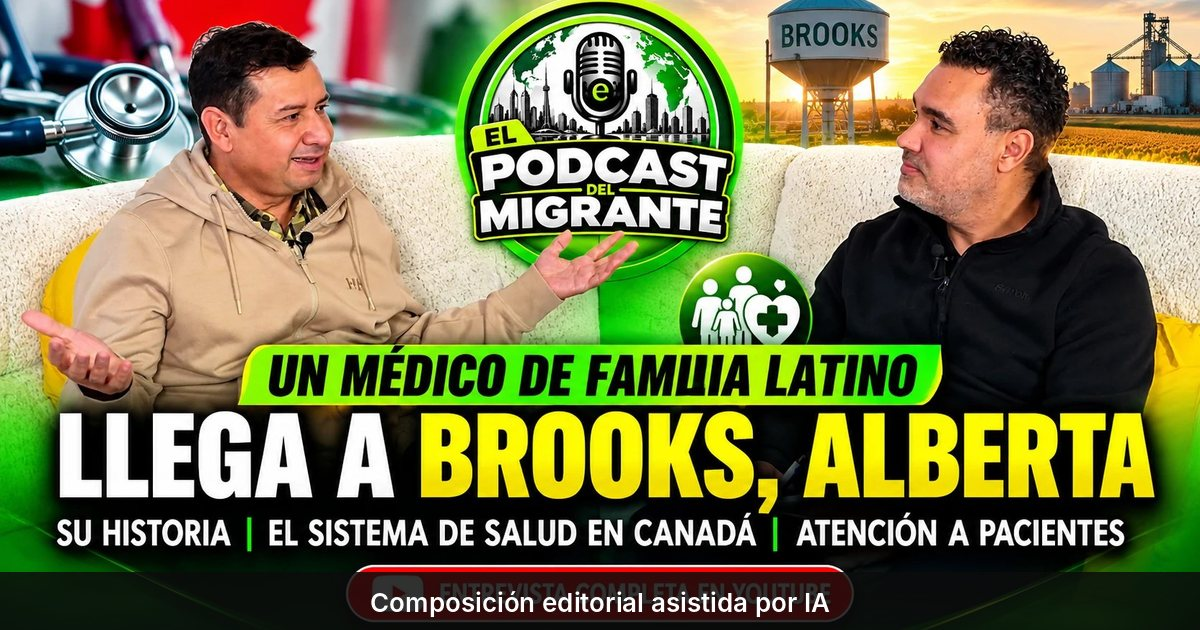
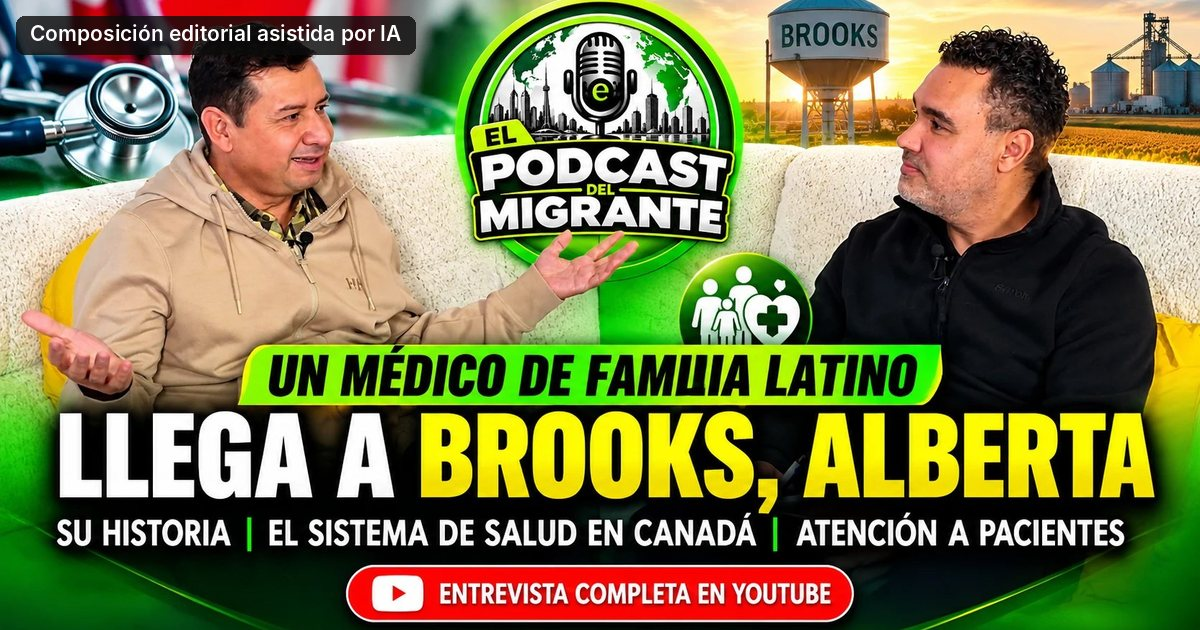
Imagen social: aviso de IA en una pastilla discreta arriba a la izquierda
Nueva opción heroImage.socialLabelPosition ("bottom" por defecto,
"top-left"). La noticia de Brooks la usa para que el aviso no tape el
titular ni el botón de YouTube de la imagen. Carney no cambia.

Claude-Session: https://claude.ai/code/session_01PFSb8dcySjfD4j1FnB3itV

diff --git a/js/articles.js b/js/articles.js
@@ -69,7 +69,12 @@
                               credit?: String [OPCIONAL],
                               socialFocus?: "50% 40%" [OPCIONAL] punto de
                               interés para recortar la imagen social
-                              1200 × 630 (por defecto "50% 40%") }
+                              1200 × 630 (por defecto "50% 40%"),
+                              socialLabel?: String [OPCIONAL] aviso escrito
+                              sobre la imagen social (p. ej. imagen con IA),
+                              socialLabelPosition?: "bottom" | "top-left"
+                              [OPCIONAL] franja inferior (por defecto) o
+                              pastilla discreta arriba a la izquierda }
                               La foto de url(...) es la que se muestra al
                               compartir; sin foto se usa el logotipo.
   bodyHtml          String  — cuerpo completo, HTML simple (párrafos,
@@ -180,6 +185,7 @@ const ARTICLES = [
       credit: "Composición editorial asistida por inteligencia artificial, elaborada a partir de una fotografía original de la entrevista.",
       socialFocus: "50% 50%",
       socialLabel: "Composición editorial asistida por IA",
+      socialLabelPosition: "top-left",
     },
     bodyHtml: `
       <p>Brooks cuenta con un nuevo médico de familia latino. El Dr. Eddy Valverde Narvaez llegó a esta ciudad del sureste de Alberta y conversó con El Podcast del Migrante sobre su historia, el sistema de salud en Canadá y la atención a pacientes.</p>

diff --git a/scripts/build-social-images.py b/scripts/build-social-images.py
@@ -19,6 +19,9 @@ url(...)), una versión social:
   heroImage.socialLabel = "Imagen ilustrativa generada con IA" la escribe
   en una franja visible sobre la imagen social: las redes no muestran el
   pie de foto del artículo, así que la advertencia viaja con la imagen.
+  Con heroImage.socialLabelPosition = "top-left" la etiqueta es una pastilla
+  pequeña en la esquina superior izquierda (para imágenes que ya llevan
+  titular o botones en la parte inferior); por defecto, franja inferior.
 
 Después de agregar o cambiar un artículo:
     python3 scripts/build-social-images.py
@@ -98,6 +101,22 @@ def add_label(img, text):
     return Image.alpha_composite(img.convert("RGBA"), overlay).convert("RGB")
 
 
+def add_corner_label(img, text):
+    """Pastilla discreta y legible en la esquina superior izquierda."""
+    font = label_font(21)
+    margin, pad_x, pad_y = 16, 14, 8
+    overlay = Image.new("RGBA", img.size, (0, 0, 0, 0))
+    draw = ImageDraw.Draw(overlay)
+    left, top, right, bottom = draw.textbbox((0, 0), text, font=font)
+    box = (margin, margin, margin + (right - left) + 2 * pad_x, margin + (bottom - top) + 2 * pad_y)
+    draw.rounded_rectangle(box, radius=8, fill=(11, 11, 11, 205))
+    draw.text((margin + pad_x - left, margin + pad_y - top), text, font=font, fill=(255, 255, 255, 255))
+    return Image.alpha_composite(img.convert("RGBA"), overlay).convert("RGB")
+
+
+LABEL_POSITIONS = {"bottom": add_label, "top-left": add_corner_label}
+
+
 def social_crop(img, focus):
     """Escala para cubrir 1200×630 sin deformar y recorta alrededor del foco."""
     img = ImageOps.exif_transpose(img).convert("RGB")
@@ -128,7 +147,10 @@ def main():
         img = social_crop(Image.open(path), focus)
         label = (a.get("heroImage") or {}).get("socialLabel")
         if label:
-            img = add_label(img, label)
+            position = (a.get("heroImage") or {}).get("socialLabelPosition") or "bottom"
+            if position not in LABEL_POSITIONS:
+                sys.exit(f"socialLabelPosition no válido en {a['slug']}: {position!r} (usa: {', '.join(LABEL_POSITIONS)})")
+            img = LABEL_POSITIONS[position](img, label)
         img.save(out, "JPEG", quality=84, optimize=True, progressive=True)
         expected.add(out.name)
         print(f"escrito    assets/social/{out.name}  ({out.stat().st_size // 1024} KB)  ← {src}")
